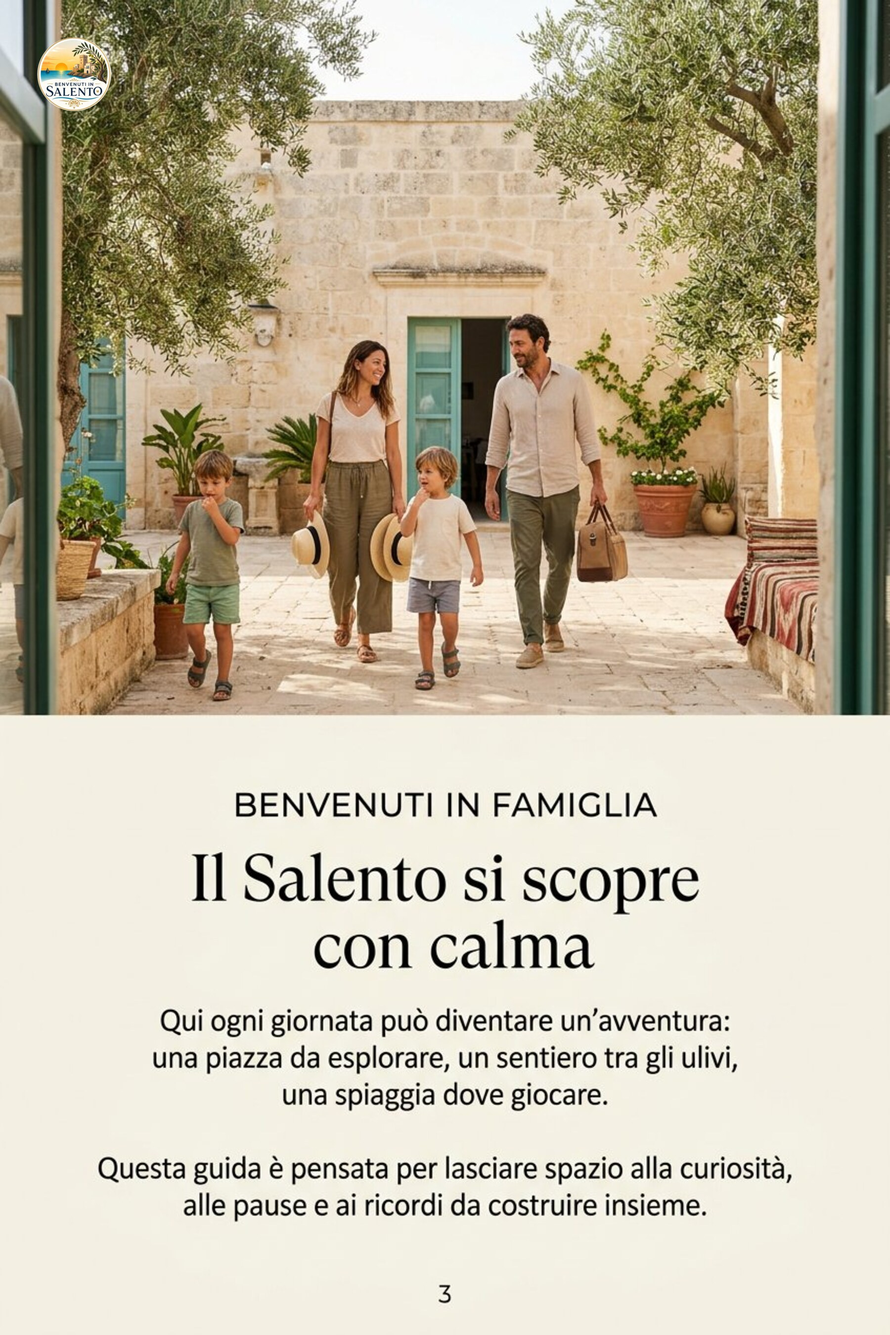
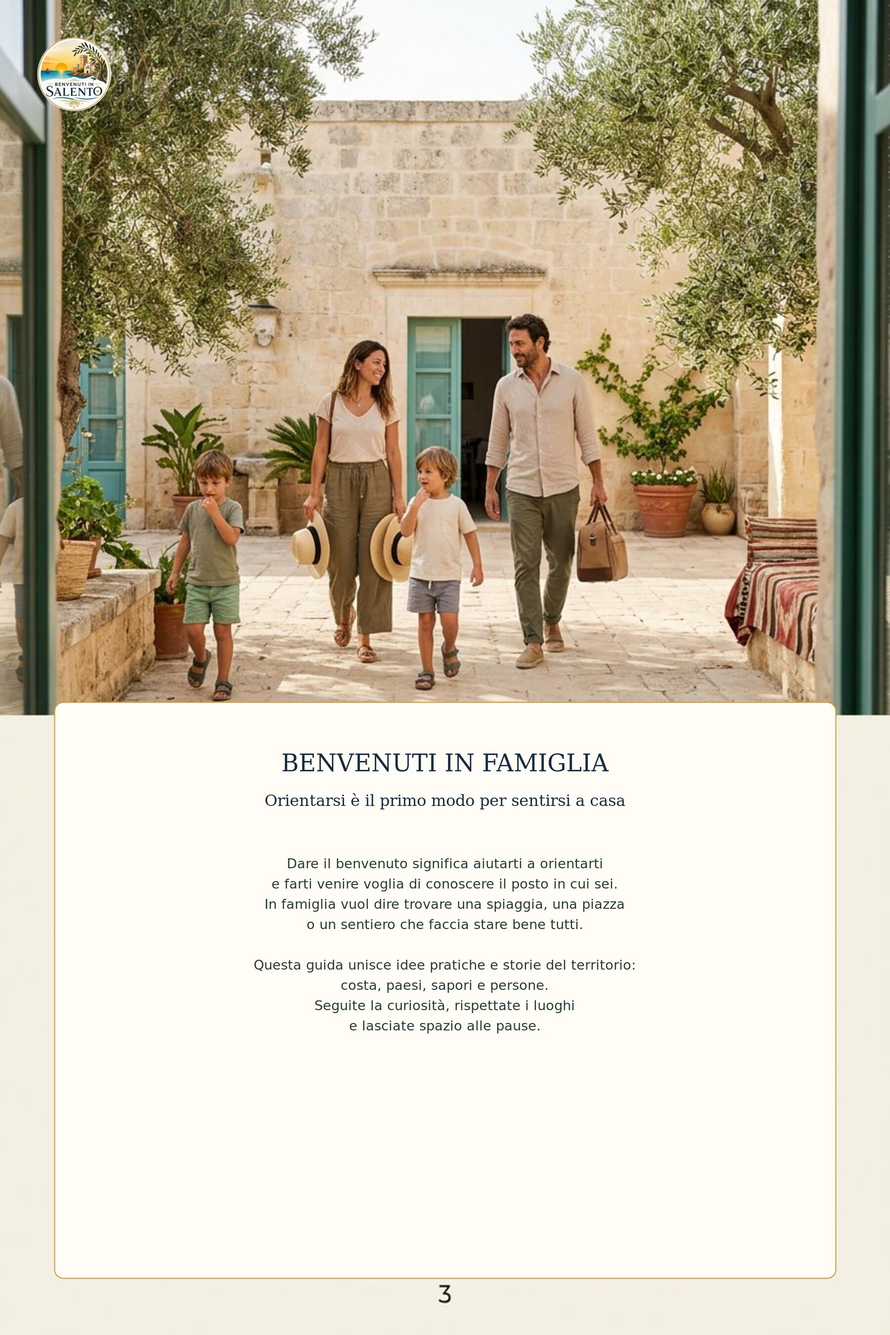
Align family guide with brand philosophy

Changed region(s): [[0.0622, 0.4978, 0.9333, 0.84], [0.1244, 0.8711, 0.9022, 0.9333]]

diff --git a/salento-per-famiglie/scripts/update_philosophy_pages.py b/salento-per-famiglie/scripts/update_philosophy_pages.py
@@ -1,0 +1,77 @@
+#!/usr/bin/env python3
+"""Rewrite selected text panels so the family guide follows the official brand philosophy."""
+from __future__ import annotations
+
+import subprocess
+from pathlib import Path
+
+ROOT = Path(__file__).resolve().parents[2]
+PAGES = ROOT / "salento-per-famiglie/pages"
+
+
+def run(*args: str) -> None:
+    subprocess.run(list(args), check=True)
+
+
+def replace_panel(filename: str, page_number: int, title: str, subtitle: str, body: str, *, final_page: bool = False) -> None:
+    source = PAGES / filename
+    work = PAGES / ".philosophy_work"
+    work.mkdir(exist_ok=True)
+    target = work / filename
+    # All selected pages use a photo header and a cream editorial panel below it.
+    panel_bottom = 2365 if final_page else 2585
+    command = [
+        "convert", str(source),
+        "-fill", "#fffdf6", "-stroke", "#c89e4b", "-strokewidth", "2",
+        "-draw", f"roundrectangle 110,1420 1690,{panel_bottom} 18,18",
+        "-gravity", "North", "-font", "DejaVu-Serif", "-stroke", "none",
+        "-fill", "#182b3f", "-pointsize", "48", "-annotate", "+0+1515", title,
+        "-pointsize", "32", "-annotate", "+0+1600", subtitle,
+        "-fill", "#263b35", "-font", "DejaVu-Sans", "-pointsize", "27",
+        "-interline-spacing", "8", "-annotate", "+0+1730", body,
+    ]
+    # Keep the original page number already present outside the editorial panel.
+    command += ["-strip", "-quality", "88", str(target)]
+    run(*command)
+    target.replace(source)
+
+
+def main() -> None:
+    replace_panel(
+        "page_003_benvenuti_in_famiglia.jpg", 3,
+        "BENVENUTI IN FAMIGLIA",
+        "Orientarsi è il primo modo per sentirsi a casa",
+        "Dare il benvenuto significa aiutarti a orientarti\ne farti venire voglia di conoscere il posto in cui sei.\nIn famiglia vuol dire trovare una spiaggia, una piazza\no un sentiero che faccia stare bene tutti.\n\nQuesta guida unisce idee pratiche e storie del territorio:\ncosta, paesi, sapori e persone.\nSeguite la curiosità, rispettate i luoghi\ne lasciate spazio alle pause.",
+    )
+    replace_panel(
+        "page_011_borghi_da_esplorare.jpg", 11,
+        "BORGHI DA ESPLORARE CON CALMA",
+        "Anche un piccolo paese ha qualcosa da raccontare",
+        "Cercate piazze, botteghe, feste e persone\nche tengono vivo il paese.\nInformatevi sulle iniziative locali e lasciate\nche siano i bambini a fare una domanda.\n\nIl Salento è anche entroterra: distribuire le visite\nsignifica conoscere più luoghi e rispettare\ni ritmi di chi li abita.",
+    )
+    replace_panel(
+        "page_014_sapori_da_provare.jpg", 14,
+        "SAPORI DA PROVARE",
+        "Il territorio si conosce anche a tavola",
+        "Dietro ogni piatto ci sono ingredienti, gesti\ne persone che custodiscono una tradizione.\n\nFRISELLA  Croccante e semplice da condire insieme.\nORECCHIETTE  Un formato da scoprire anche con gli occhi.\nPITTULE  Piccole frittelle da condividere.\nPASTICCIOTTO  Una merenda dolce da gustare con calma.\n\nIn caso di allergie, chiedete sempre gli ingredienti.",
+    )
+    replace_panel(
+        "page_023_contatti_informazioni.jpg", 23,
+        "CONTATTI E INFORMAZIONI UTILI",
+        "Il sito per orientarsi prima e durante il viaggio",
+        "Per sapere che cosa succede nei paesi vicini,\ncercare un'iniziativa o organizzare la giornata,\nconsulta le informazioni aggiornate sul sito.\n\nVerifica sempre orari, accessibilità, prenotazioni\ne condizioni del mare prima di partire.\n\nSITO UFFICIALE\nbenvenutiinsalento.it",
+    )
+    replace_panel(
+        "page_024_a_presto_salento.jpg", 24,
+        "A PRESTO, SALENTO",
+        "Una guida per guardarsi intorno",
+        "Che tu stia organizzando una vacanza\no cercando un'idea per il fine settimana,\nsperiamo di averti dato informazioni utili\ne una buona ragione per guardarti intorno.\n\nIl Salento vive tutto l'anno:\ncosta, piccoli paesi, iniziative,\nartigiani e storie di chi lo abita.\n\nAlla prossima avventura.",
+        final_page=True,
+    )
+    work = PAGES / ".philosophy_work"
+    work.rmdir()
+    print("Updated five family-guide pages with the official Benvenuti in Salento philosophy.")
+
+
+if __name__ == "__main__":
+    main()

diff --git a/salento-per-famiglie/config/brand_philosophy.md b/salento-per-famiglie/config/brand_philosophy.md
@@ -1,0 +1,17 @@
+# La filosofia di Benvenuti in Salento
+
+## La nostra filosofia
+
+Per noi, dare il benvenuto significa aiutarti a orientarti e farti venire voglia di conoscere il posto in cui sei. Vale quando cerchi una spiaggia riparata dal vento, quando vuoi sapere che cosa succede stasera in un paese vicino e quando passi davanti a un vecchio frantoio e ti chiedi che storia abbia.
+
+Da queste domande nasce **Benvenuti in Salento**, un progetto che unisce il racconto del territorio alle informazioni che servono per viverlo. Raccontiamo la costa e i paesi dell'entroterra, le feste di comunità, il lavoro degli artigiani e le storie custodite da chi qui ci vive. Lo facciamo con curiosità, attenzione alle fonti e rispetto per i luoghi e per le persone che li abitano.
+
+## La nostra vision
+
+Vogliamo un Salento da vivere tutto l'anno, in cui anche i piccoli paesi e le loro iniziative abbiano spazio. Immaginiamo un turismo più distribuito tra costa ed entroterra e una comunità in cui chi visita il territorio e chi lo abita possa trovare occasioni per conoscerlo meglio, incontrarsi e partecipare alla sua vita.
+
+## La nostra mission
+
+Ogni giorno lavoriamo per rendere più semplice decidere dove andare, che cosa fare e come organizzarsi in Salento. Raccogliamo gli appuntamenti dei comuni, prepariamo guide e itinerari e raccontiamo sul sito e sui social le storie che aiutano a capire i luoghi prima e dopo averli visitati.
+
+Diamo spazio alle iniziative locali e alle persone che le rendono possibili. Che tu stia organizzando una vacanza o cercando un'idea per il fine settimana vicino a casa, vogliamo darti informazioni utili per scegliere e una buona ragione per guardarti intorno.
